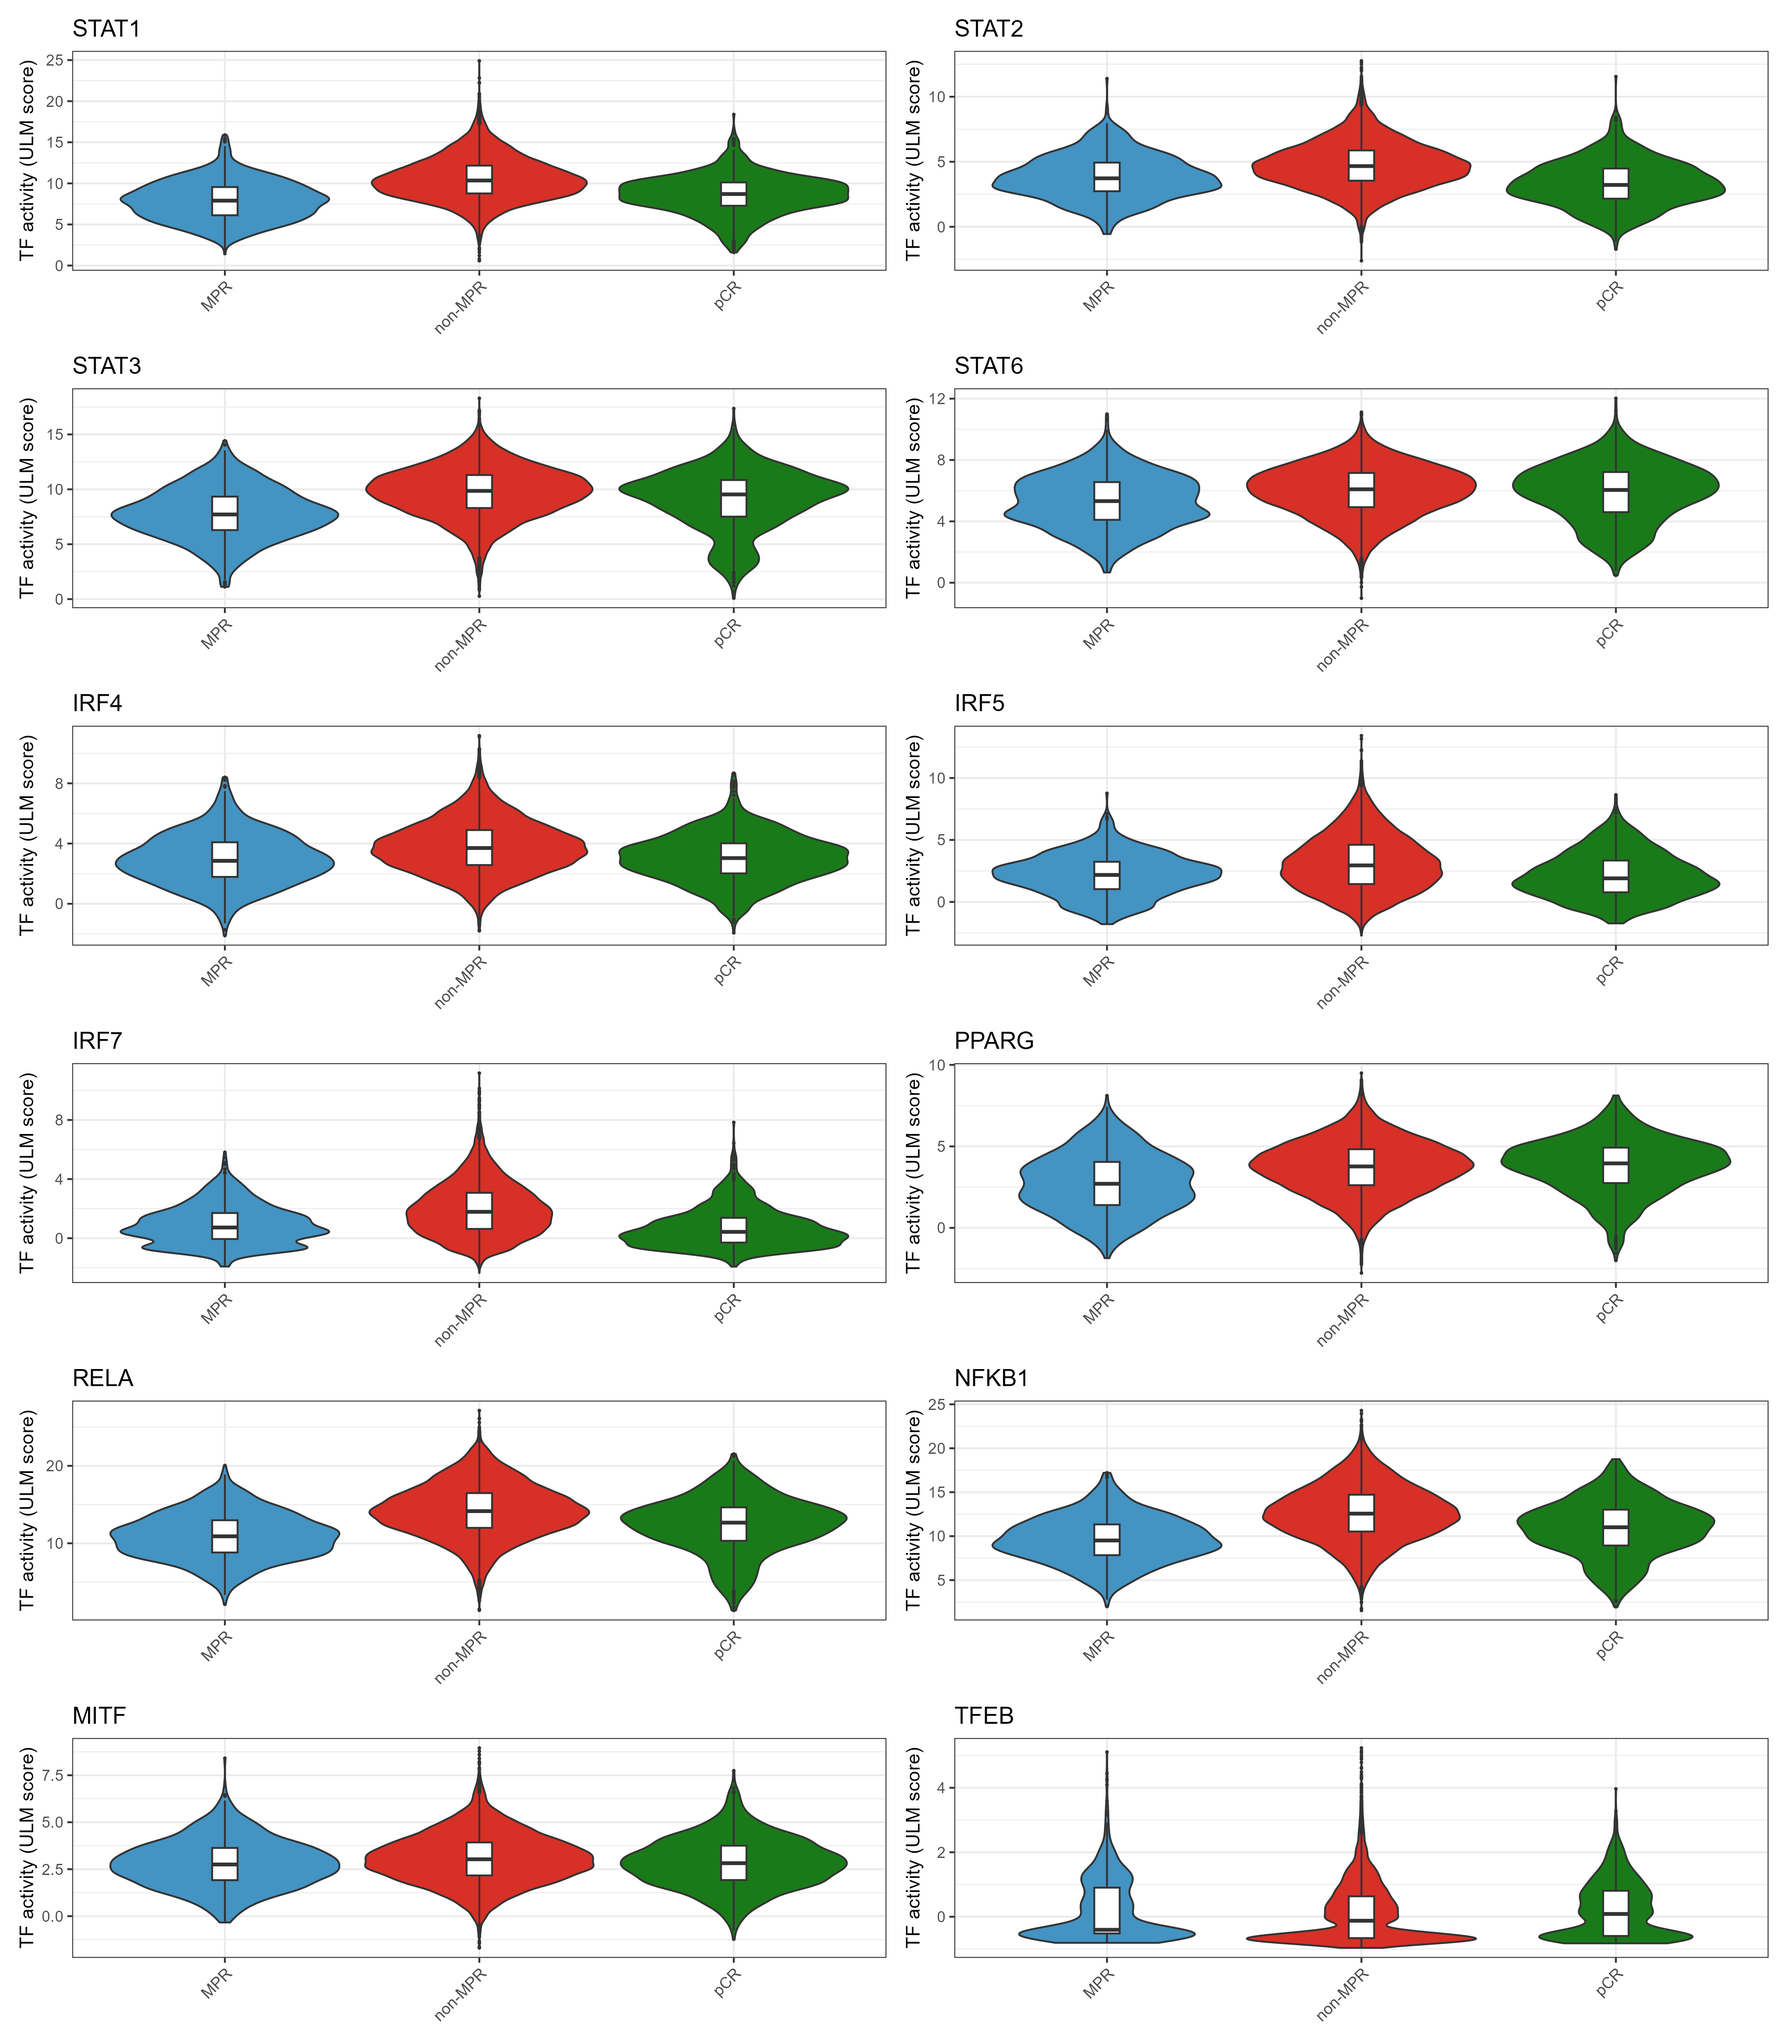
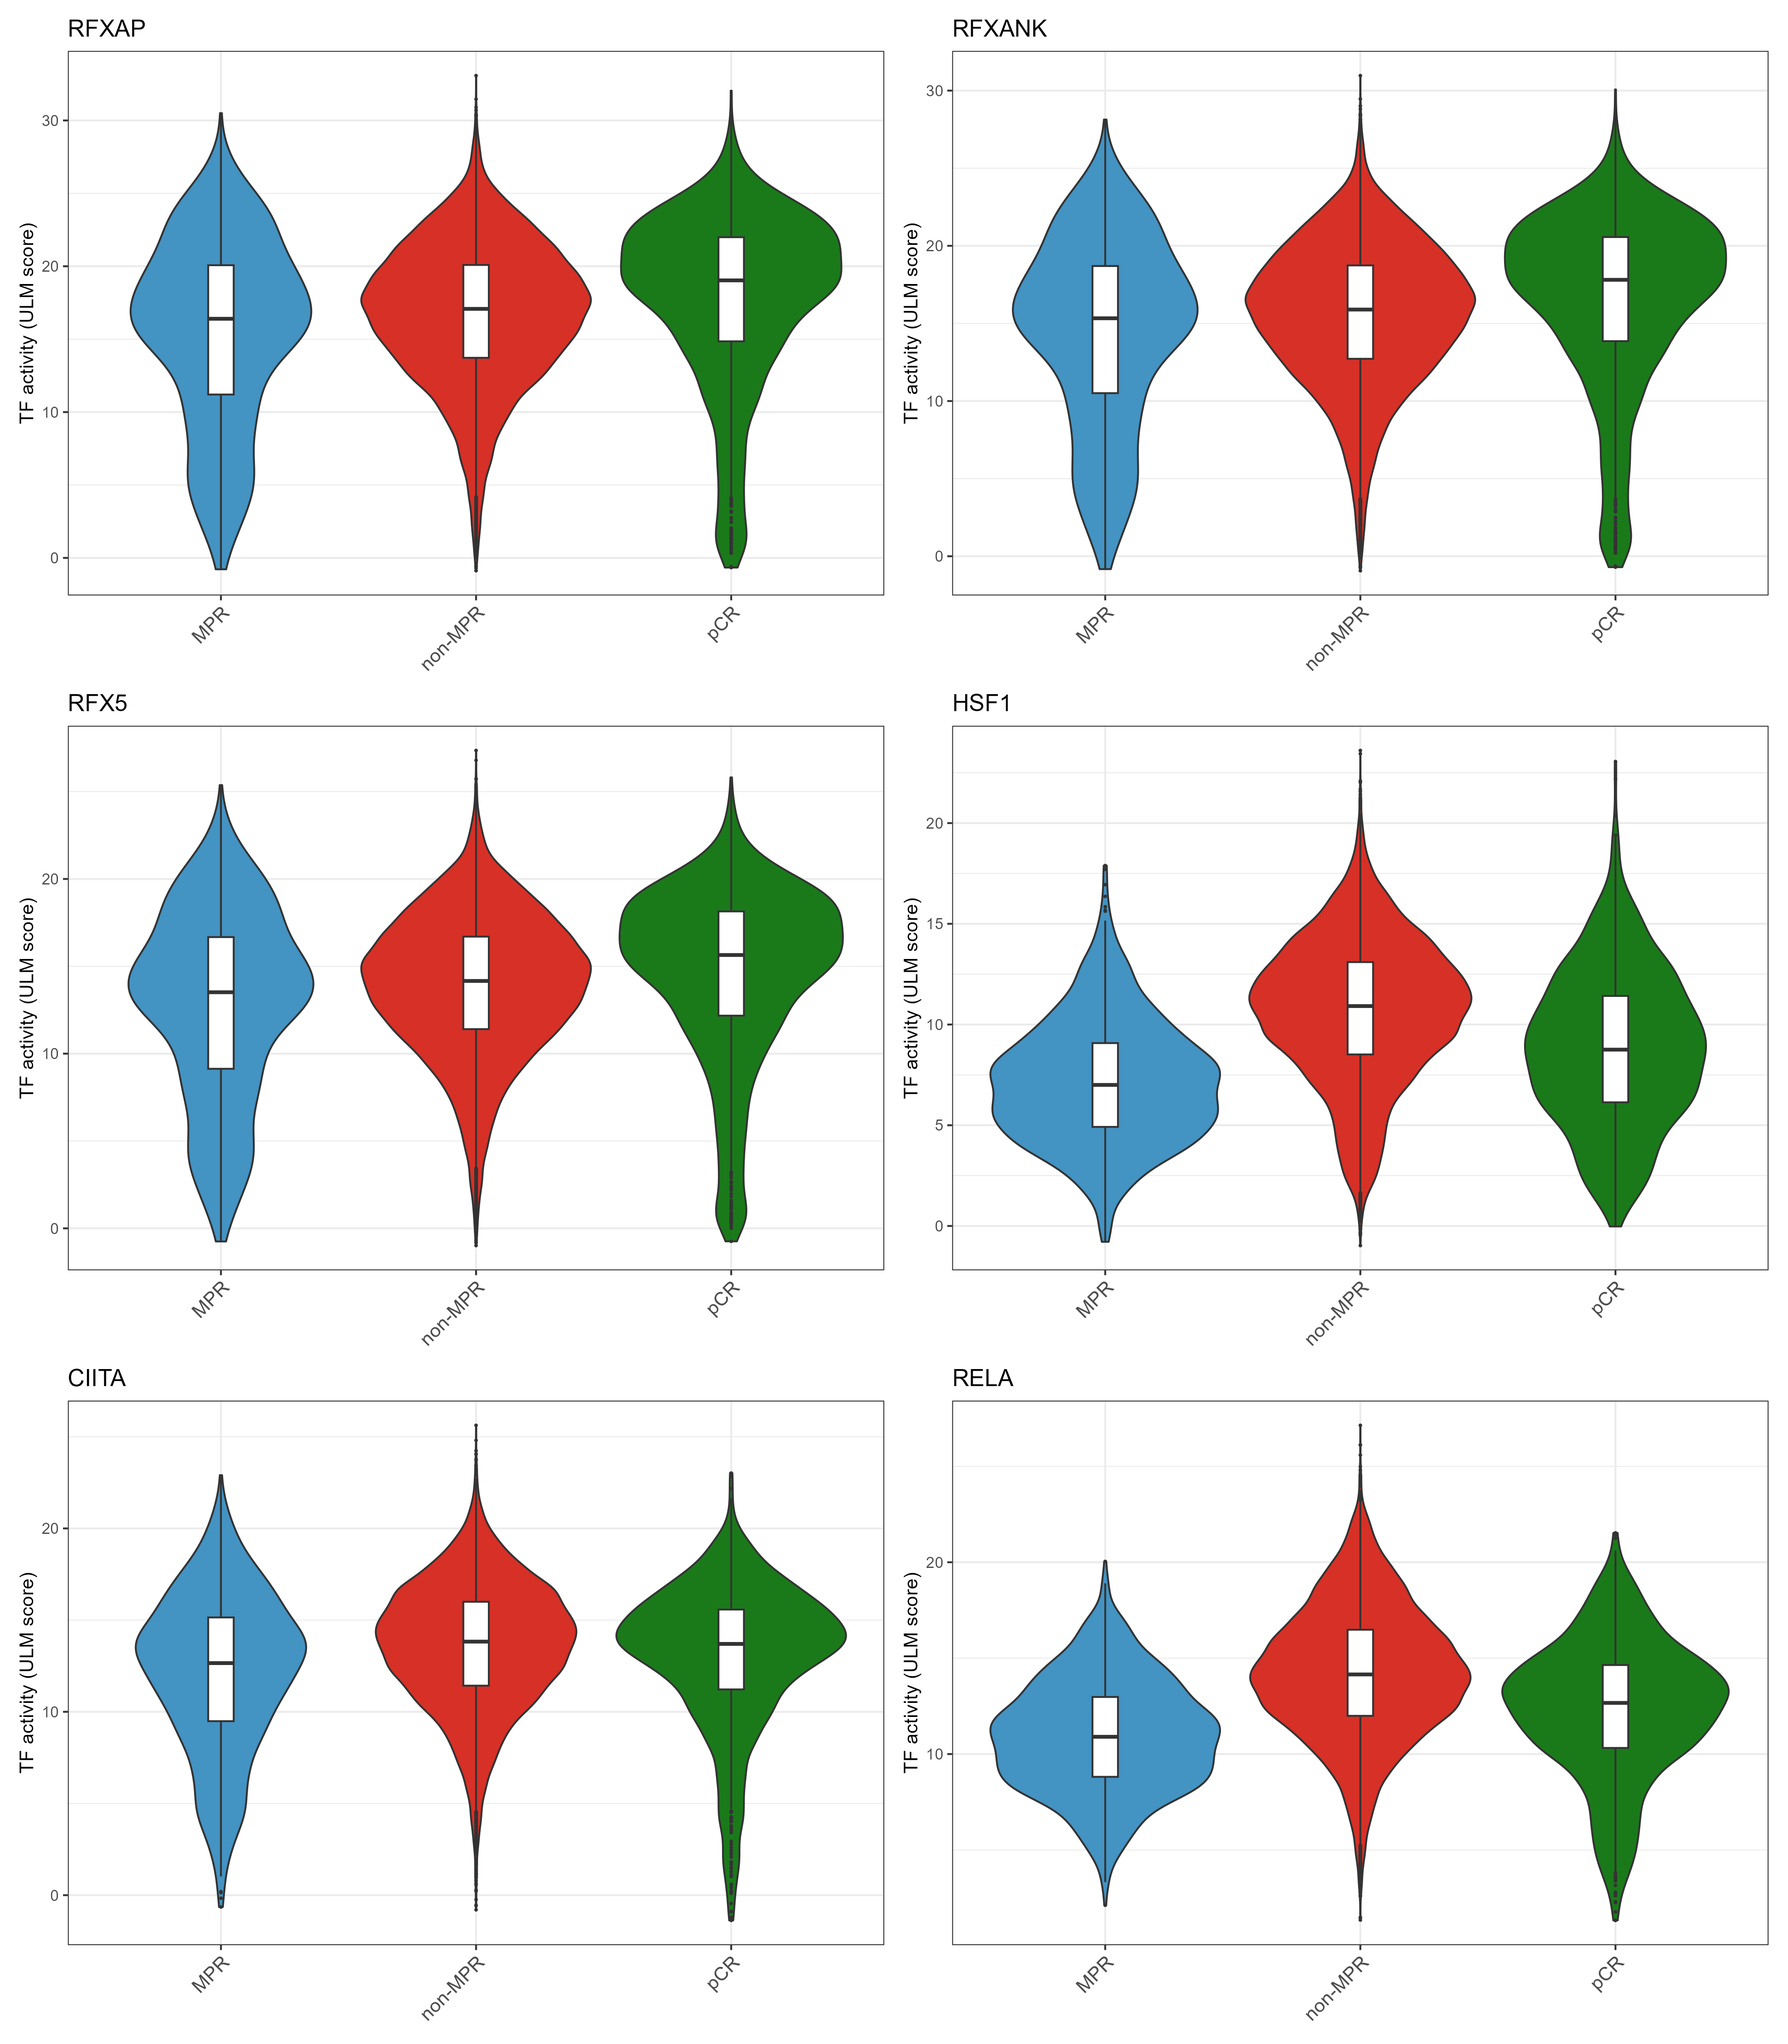
fix: CollecTRI TAMs objective Top 6 TF selection — update scripts, figures, README preliminary observations

diff --git a/README.md b/README.md
@@ -316,7 +316,7 @@ CD8.MAIT dropped from 1,273 to 47,  confirms cleaner CD8 population in Script 08
 **Methodological note (Bloc 4 CollecTRI):** Following correction applied to 
 Bloc 3 CollecTRI CD8 analysis, violin plots for TAM CollecTRI will display 
 Top 6 TFs by cross-cell variance (objective selection, no confirmationbias). 
-Scripts Bloc4A_07 and Bloc4B_06 to be updated accordingly. [PENDING]
+Scripts Bloc4A_07 and Bloc4B_06 to be updated accordingly. 
 
   ### Bloc 4A : GSE243013
 #### Script 01 : TAMs subsetting and ElbowPlot
@@ -369,7 +369,8 @@ Scripts Bloc4A_07 and Bloc4B_06 to be updated accordingly. [PENDING]
   - All 7 TAM subtypes included, max 10,000 cells/subtype, set.seed(42)
   - Top 20 TFs by variance across cells
   - Short labels applied for readability (consistent with Script 05)
-  - Key TFs selected based on M1/M2/IFN/SPP1 UCell signature biological rationale
+  - Violin plots: Top 6 TFs by variance (objective selection, no confirmation bias)
+    Top 6: RFXAP, HSF1, RELA, RFXANK, NFKB, STAT1
   - Output: 3 heatmaps (MPR/non-MPR/pCR) + key TFs violin
   - Objects saved: Bloc4A_07_seu_TAMs_TF.rds
 
@@ -421,12 +422,17 @@ Scripts Bloc4A_07 and Bloc4B_06 to be updated accordingly. [PENDING]
   Solution: manual Wilcoxon + geom_text annotation on barplot
 - References: Chen et al. 2021 (PMC8053174), Italiani & Boraschi 2019 (PMC6543837)
 
+#### Script 06 : CollecTRI TF activity on TAMs (GSE207422)
+  - Tool: decoupleR run_ulm + CollecTRI network (local CSV)
+  - All 9 TAM subtypes included, max 10,000 cells/subtype, set.seed(42)
+  - Top 20 TFs by variance across cells
+  - Short labels applied for readability (consistent with Bloc4B UCell script)
+  - Violin plots: Top 6 TFs by variance (objective selection, no confirmation bias)
+  Top 6: RFXAP, RFXANK, HSF1, RFX5, CIITA, RELA
+  - Output: 2 heatmaps (MPR/NMPR) + key TFs violin
+  - Objects saved: Bloc4B_06_seu_TAMs_TF.rds
+
 ## Preliminary observations : CollecTRI TAMs (Bloc 4) [PENDING]
-
-CollecTRI TAM analysis will be updated with objective Top 6 TF selection 
-by variance, consistent with Bloc 3 CD8 methodology. Scripts Bloc4A_07 
-and Bloc4B_06 pending correction.
-
 ---
 
 ## Preliminary observations : TME composition and CD8 states (Bloc 2-3)
@@ -480,7 +486,7 @@ Hypothesis: anti-PD-1 reactivated a fraction of TEX toward TPEX in responders
 
 ## Preliminary observations : CollecTRI CD8 (Bloc 3)
 
-**Methodological correction:** Initial violin plots used manually selected TFs based on prior DoRothEA hypotheses, confirmation bias risk. Corrected to Top 6 by cross-cell variance (objective). Top 10 and Top 15 tested, conclusions unchanged.
+**Methodological correction:** Initial violin plots used manually selected TFs based on prior DoRothEA hypotheses, confirmation bias risk. Corrected to Top 6 by cross-cell variance (objective). Top 10 and Top 15 tested, conclusions unchanged.Heatmaps row-scaled (z-score), subtype-specific patterns; absolute differences shown in violin plots (Top 6 by variance)
 
 **GSE243013 Top 6:** HSF1, HSF2, RFXAP, RFXANK, ELK4, MYC
 - ELK4 rank 5/772 , enriched MPR CD8.TEX
@@ -556,14 +562,30 @@ not artifact
 - Non-MPR: triple immunosuppression (M2 + SPP1 + IFN TAMs)
 - pCR more heterogeneous than MPR at patient level, multiple pathways to complete response
 
-## Preliminary observations : Pseudobulk TAMs MPR vs pCR (Bloc 4, GSE243013)
+## Preliminary observations : Pseudobulk UCell_TAMs MPR vs pCR (Bloc 4, GSE243013)
 
 - All signatures ns (IFN p=0.512, M1 p=0.152, M2 p=0.654, SPP1 p=0.468)
 - pCR more heterogeneous than MPR at patient level, Case 1 (insufficient power) vs CD8 pseudobulk where heterogeneity similar, Case 2 (biological similarity)
 - TAM signatures alone insufficient to separate MPR from pCR
 - Integration of CD8 + TAM signatures required planned via CellChat/NicheNet
 
+## Preliminary observations : CollecTRI TAMs (Bloc 4)
 
+**Methodological note:** Violin plots display Top 6 TFs by cross-cell variance (objective selection, consistent with Bloc 3 CD8 methodology).
+
+**GSE243013 Top 6:** RFXAP, HSF1, RELA, RFXANK, NFKB, STAT1
+- MHC II program (RFXAP/RFXANK) enriched MPR and pCR > non-MPR 
+- CIITA slightly enriched MPR 
+- HSF1/RELA enriched non-MPR : chronic stress/inflammation
+
+**GSE207422 Top 6:** RFXAP, RFXANK, HSF1, RFX5, CIITA, RELA
+- MHC II program (RFXAP/RFXANK/RFX5/CIITA) enriched MPR > NMPR
+- RELA/REL similar between groups, NMPR shows wider distribution suggesting inter-patient heterogeneity in NF-κB activation
+
+**Cross-dataset consensus (CollecTRI objective):**
+- MHC II program enriched in responders both datasets : most robust TAM CollecTRI signal
+- HSF1 enriched non-responders both datasets : chronic stress program
+- Differences between conditions better captured by UCell than CollecTRI (variance dominated by subtype-specific patterns)
 
 ## Methodological Notes
 
